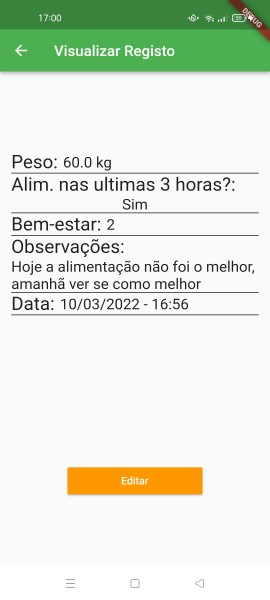
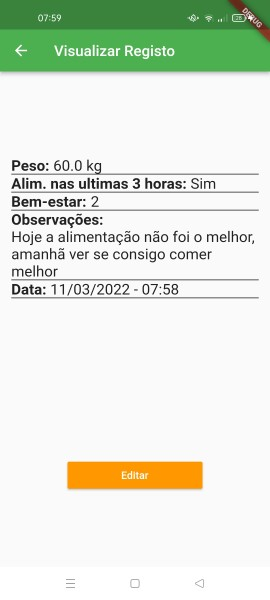
finally "visualizar" done

Changed region(s): [[0.0296, 0.24, 0.9481, 0.54], [0.237, 0.75, 0.7704, 0.84], [0.2074, 0.03, 0.237, 0.06]]

diff --git a/lib/screens/visualizar.dart b/lib/screens/visualizar.dart
@@ -43,7 +43,8 @@ class _VisualizarScreenState extends State<VisualizarScreen> {
                   Text(
                     "Peso: ",
                     style: TextStyle(
-                      fontSize: 25,
+                      fontSize: 20,
+                      fontWeight: FontWeight.bold,
                     ),
                   ),
                   Text(
@@ -55,19 +56,22 @@ class _VisualizarScreenState extends State<VisualizarScreen> {
                 ],
               ),
               Container(height: 1, width: MediaQuery.of(context).size.width, color: Colors.black87,),
-              Text(
-                "Alim. nas ultimas 3 horas?:",
-                style: TextStyle(
-                  fontSize: 25,
-                ),
-                textAlign: TextAlign.left,
-              ),
-              Text(
-                _dataSource.getAll()[id].alimentacao.toString(),
-                style: TextStyle(
-                  fontSize: 20,
-                ),
-                textAlign: TextAlign.center,
+              Row(
+                children: [
+                  Text(
+                    "Alim. nas ultimas 3 horas: ",
+                    style: TextStyle(
+                      fontSize: 20,
+                      fontWeight: FontWeight.bold,
+                    ),
+                  ),
+                  Text(
+                    _dataSource.getAll()[id].alimentacao.toString(),
+                    style: TextStyle(
+                      fontSize: 20,
+                    ),
+                  ),
+                ],
               ),
               Container(height: 1, width: MediaQuery.of(context).size.width, color: Colors.black87,),
               Row(
@@ -75,7 +79,8 @@ class _VisualizarScreenState extends State<VisualizarScreen> {
                   Text(
                     "Bem-estar: ",
                     style: TextStyle(
-                      fontSize: 25,
+                      fontSize: 20,
+                      fontWeight: FontWeight.bold,
                     ),
                   ),
                   Text(
@@ -90,16 +95,15 @@ class _VisualizarScreenState extends State<VisualizarScreen> {
               Text(
                 "Observações:",
                 style: TextStyle(
-                  fontSize: 25,
+                  fontSize: 20,
+                  fontWeight: FontWeight.bold,
                 ),
-                textAlign: TextAlign.left,
               ),
               Text(
                 _dataSource.getAll()[id].observacoes.toString(),
                 style: TextStyle(
                   fontSize: 20,
                 ),
-                textAlign: TextAlign.left,
               ),
               Container(height: 1, width: MediaQuery.of(context).size.width, color: Colors.black87,),
               Row(
@@ -107,7 +111,8 @@ class _VisualizarScreenState extends State<VisualizarScreen> {
                   Text(
                     "Data: ",
                     style: TextStyle(
-                      fontSize: 25,
+                      fontSize: 20,
+                      fontWeight: FontWeight.bold,
                     ),
                   ),
                   Text(

diff --git a/README.md b/README.md
@@ -14,6 +14,7 @@
 </p>
 
 ### Screenshots:
+#####(Fotos retiradas em diferentes dias, data do registo no listar pode ser diferente do visualizar, por essa razão, não problema da app)
 
 #### Menu Drawer:
 ![](images/drawer.jpg?raw=true "Menu Drawer")
